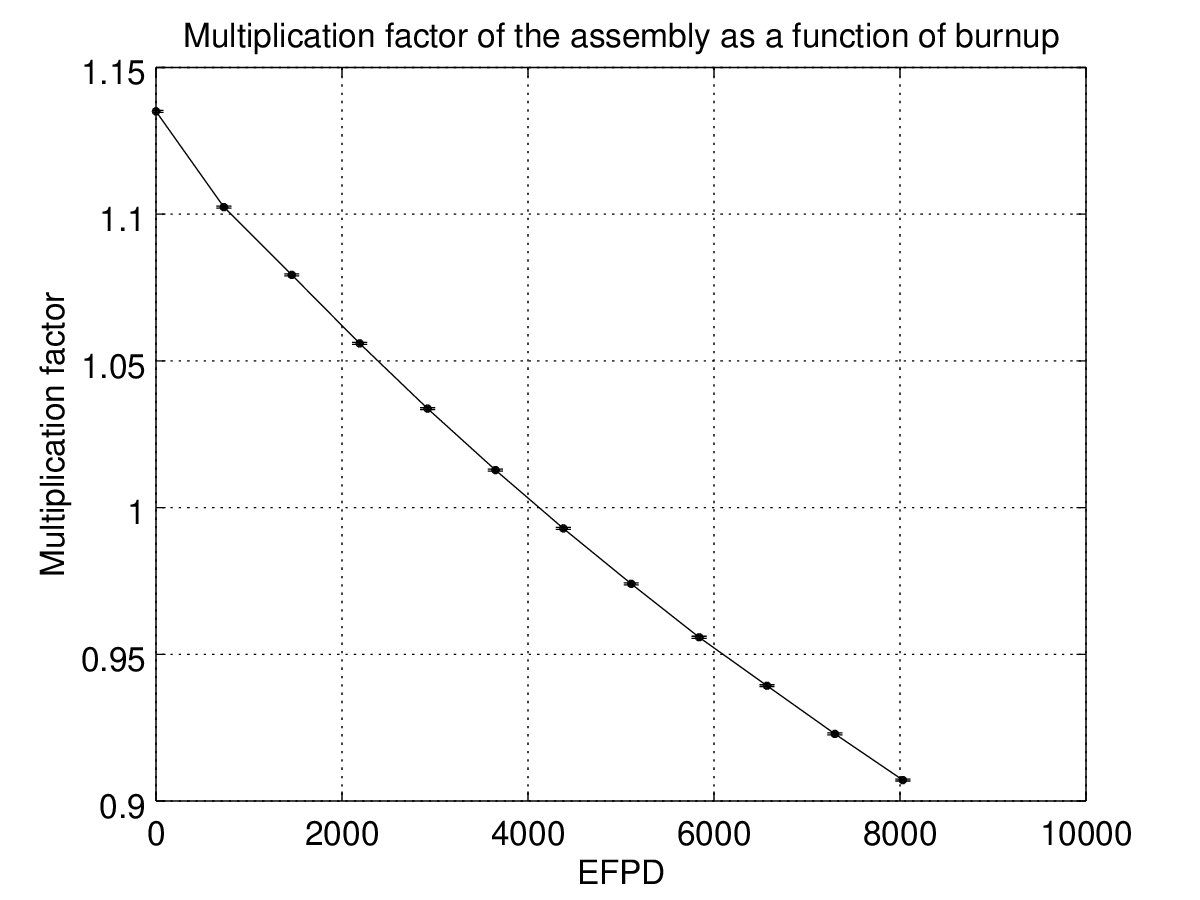
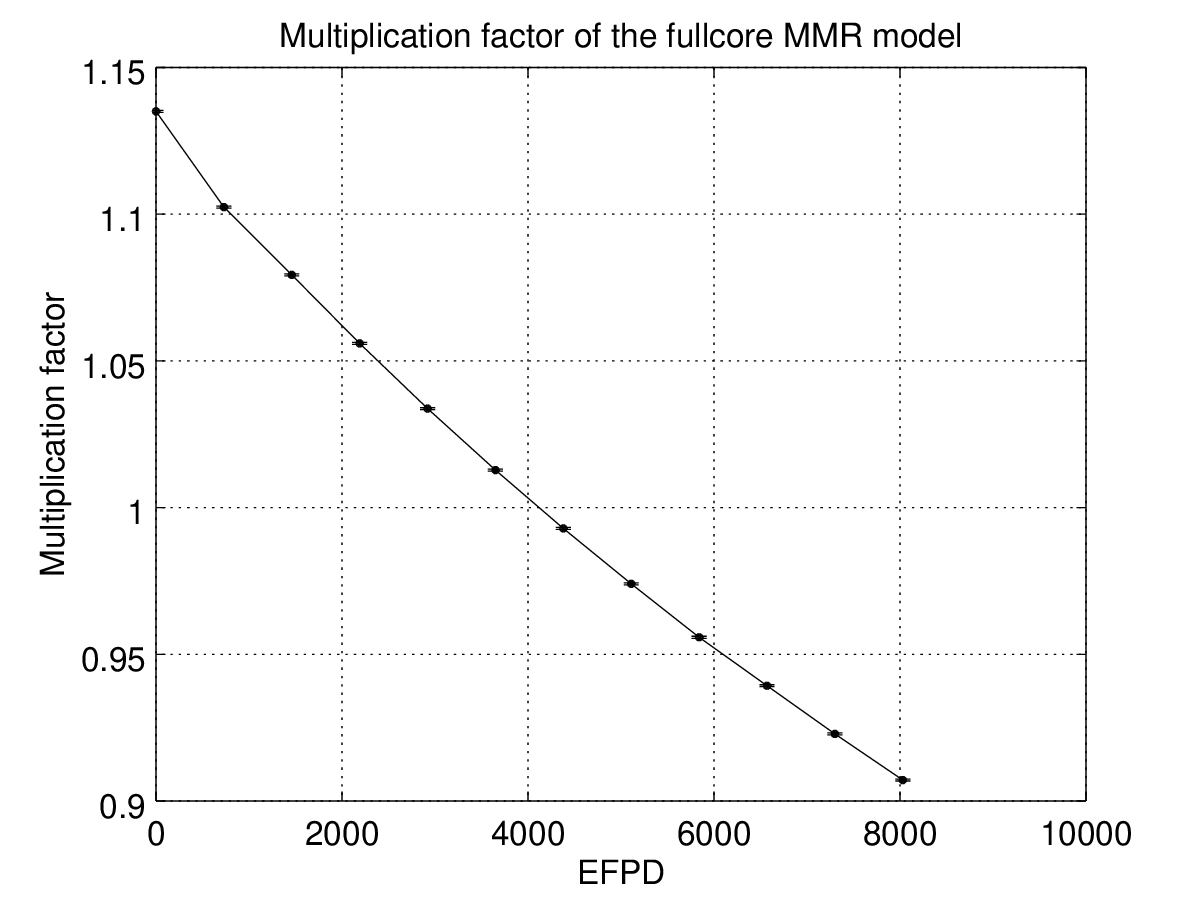
added 7 fuel assemblies input file

Changed region(s): [[0.1542, 0.0, 0.8942, 0.0622]]

diff --git a/usnc/examples.tex b/usnc/examples.tex
@@ -8,6 +8,7 @@
 \addtolength{\textheight}{1.75in}
 
 \usepackage[utf8]{inputenc}
+\usepackage{multirow}
 \usepackage{caption} % for table captions
 \usepackage{amsmath} % for multi-line equations and piecewises
 \DeclareMathOperator{\sign}{sign}
@@ -113,7 +114,8 @@ The table also lists the assumptions made for each parameter.
 		Compact diameter            & 2.14 cm           & Fuel pin diameter is 2.17 cm in Section 1 of \cite{hawari_development_2018}  \\
 		Helium gap                  & 0.01 cm           & The presence of a gap is an assumption. \\
 		Compact length              & 4.0 cm            & Value chosen arbitrily to model the compact. \\ 
-        Helium density           	& 2.0526 kg/m$^3$   & Ideal gas density, T=700K, P=3 MPa. Section 5 of \cite{hawari_development_2018} \\
+        \multirow{ 2}{*}{Helium density} & \multirow{ 2}{*}{2.0526 kg/m$^3$}  & Ideal gas density, T=700K, P=3 MPa. \\
+                                    &                   & Section 5 of \cite{hawari_development_2018} \\
         Block graphite density      & 1.75 g/cm$^3$     & Density of grade H-451 Graphite \cite{gougar_prismatic_2010} \\ \hline
 
 		\end{tabular}
@@ -190,7 +192,8 @@ See Section \ref{sec:comments} for further discussion on the assumptions.
 		Number of coolant holes          & 19            & Section 1 of \cite{hawari_development_2018} \\
 		Coolant hole radius        		 & 1.54 cm       & 1.55 cm in Section 1 of \cite{hawari_development_2018} \\
 		Flat-to-flat hexagonal lattice   & 6.4 cm        & Value infered. \\
-		Fuel length                      & 68 cm         & Fuel rod of 63.24 cm with top and bottom graphite plugs of 2.38 cm. Section 1 of \cite{hawari_development_2018} \\ \hline
+		\multirow{ 2}{*}{Fuel length}    & \multirow{ 2}{*}{68 cm} & Fuel rod of 63.24 cm with top and bottom \\
+                                         &               & graphite plugs of 2.38 cm. Section 1 of \cite{hawari_development_2018} \\ \hline
 		\end{tabular}
 	\end{table}
 
@@ -208,7 +211,8 @@ See Section \ref{sec:comments} for further discussion on the assumptions.
 		Number of coolant holes          & 18            & Section 1 of \cite{hawari_development_2018} \\
 		Large coolant hole radius        & 1.54 cm       & 1.55 cm in Section 1 of \cite{hawari_development_2018} \\
 		Flat-to-flat hexagonal lattice   & 6.4 cm        & Value infered. \\
-		Fuel length                      & 68 cm         & Fuel rod of 63.24 cm with top and bottom graphite plugs of 2.38 cm. Section 1 of \cite{hawari_development_2018} \\ 
+		\multirow{ 2}{*}{Fuel length}    & \multirow{ 2}{*}{68 cm} & Fuel rod of 63.24 cm with top and bottom \\
+                                         &               & graphite plugs of 2.38 cm. Section 1 of \cite{hawari_development_2018} \\ 
 		Control rod diameter             & 8 cm          & Section 1 of \cite{hawari_development_2018} \\ \hline
 		\end{tabular}
 	\end{table}

diff --git a/usnc/analyzeBurn.m b/usnc/analyzeBurn.m
@@ -46,7 +46,8 @@ ylabel("Multiplication factor");
 
 ## Add title to the plot
 
-title("Multiplication factor of the assembly as a function of burnup")
+title("Multiplication factor of the fullcore MMR model")
+# title("Multiplication factor of the assembly as a function of burnup")
 
 ## Set limits for the axes
 

diff --git a/usnc/README.md b/usnc/README.md
@@ -8,6 +8,9 @@ Serpent files:
 * fullcore2: defines the fullcore geometry of the MMR.
 	- active core composed of 4 fuel assemblies
 
+* fullcore4: defines the fullcore geometry of the MMR.
+	- active core composed of 6 fuel assemblies
+
 * dispersed4.inp: fuel compact of 4 cm-height, 1.07 cm-radius.
 * dispersed68.inp: fuel compact of 68 cm-height, 1.07 cm-radius.
 * dispersed-particles4.inp: fuel compact of 4 cm-height, 0.9cm-radius.
